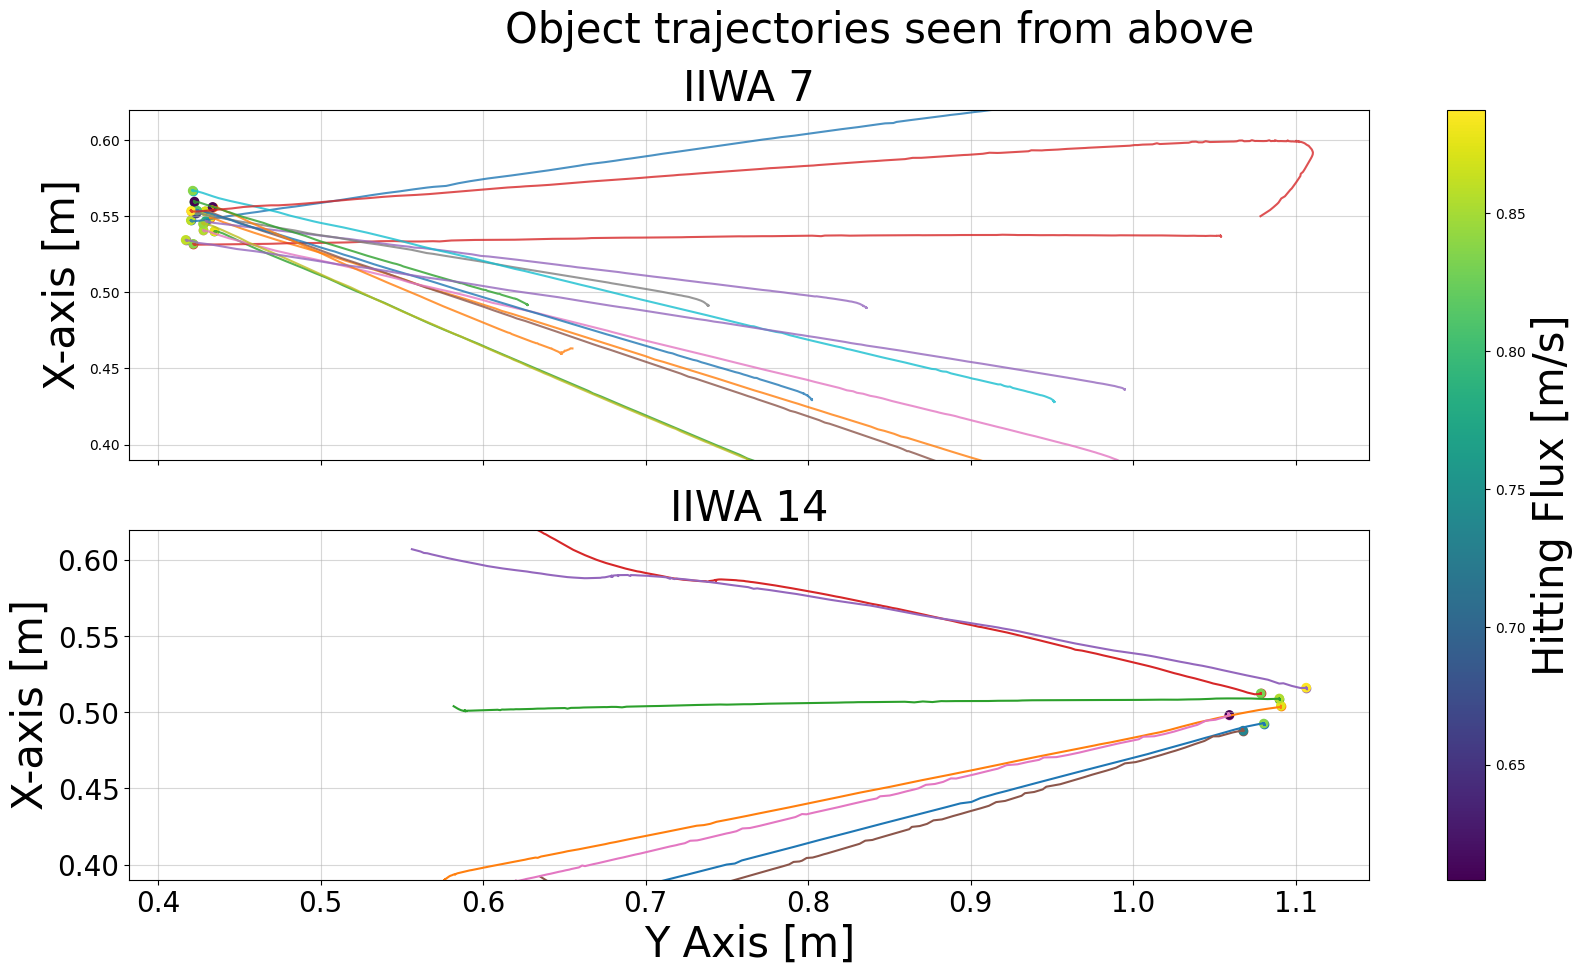
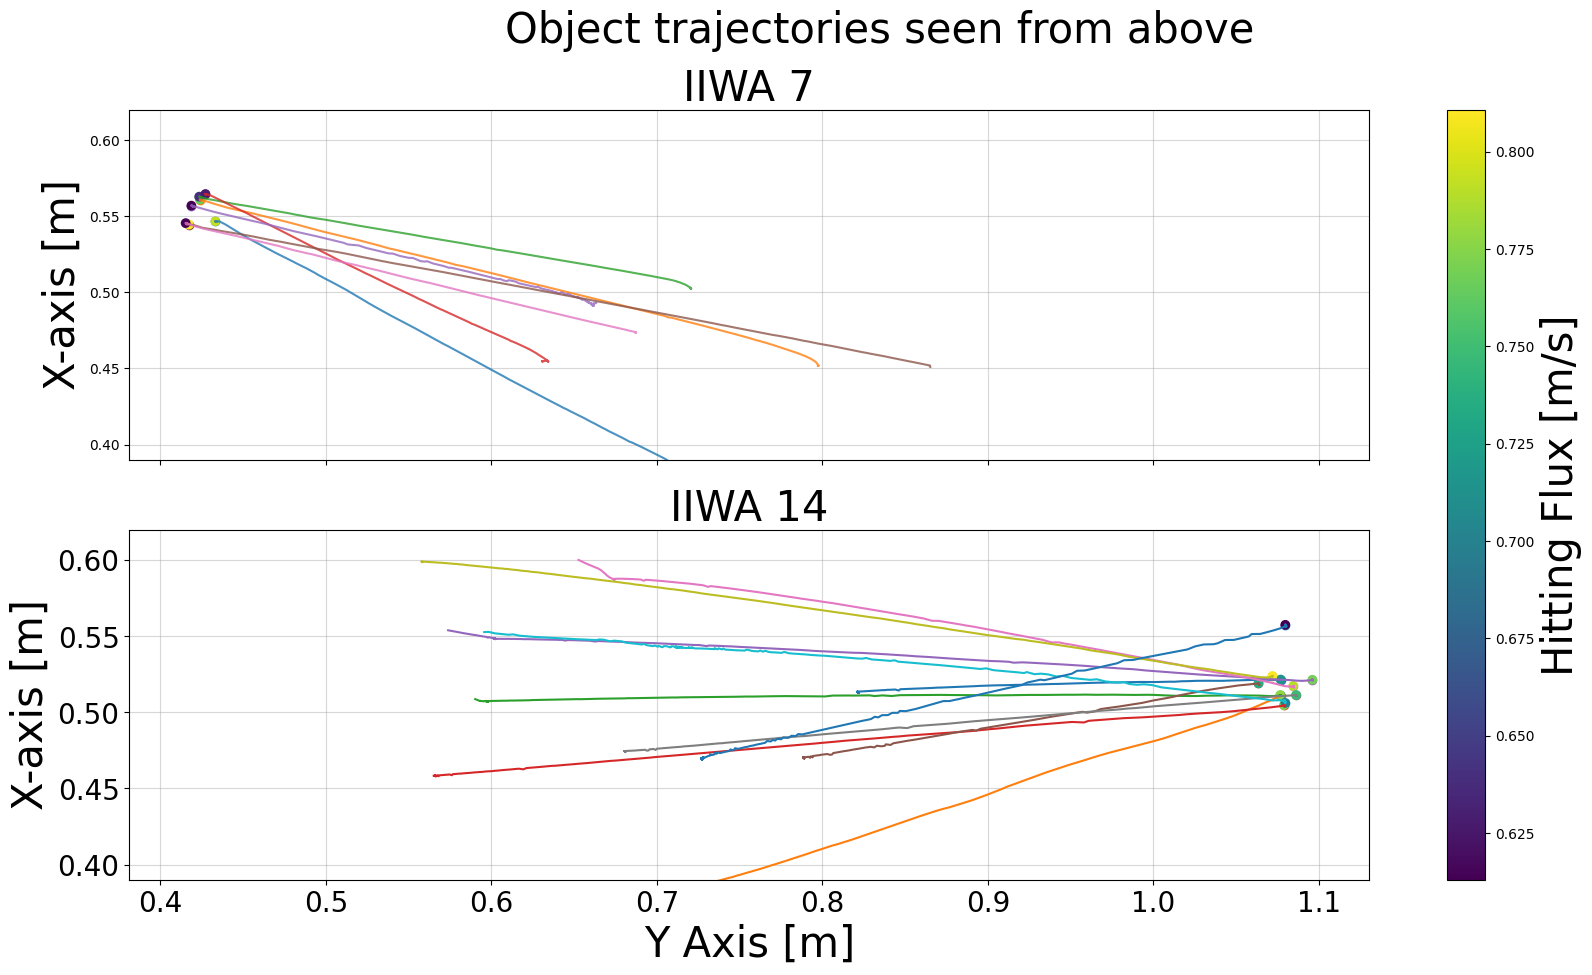
added prints

diff --git a/python/paper_plots.py b/python/paper_plots.py
@@ -228,6 +228,8 @@ def plot_object_trajectory_onefig(df, dataset_path="varying_flux_datasets/D1/", 
 ### Functions to call to recreate paper plots
 def object_traj_plot_for_paper(dataset_to_use='clean'):
 
+    print("Plotting object trajectories...")
+
     ### Datasets to use
     csv_fn = "D1_clean" 
 
@@ -235,7 +237,7 @@ def object_traj_plot_for_paper(dataset_to_use='clean'):
 
     ### Read OR clean datasets
     if dataset_to_use == "raw":
-        clean_df = read_and_clean_data(csv_fn, dataset_name=dataset_new_name, resample=False, save_folder=SAVE_FOLDER_FOR_PAPER, save_clean_df=True)
+        clean_df = read_and_clean_data(csv_fn, dataset_name=dataset_new_name, max_flux=0.82, resample=False, save_folder=SAVE_FOLDER_FOR_PAPER, save_clean_df=True)
     elif dataset_to_use == "clean":
         clean_df = read_airhockey_csv(fn=dataset_new_name, folder=PATH_TO_DATA_FOLDER + f"airhockey_processed/clean/{SAVE_FOLDER_FOR_PAPER}/")
 
@@ -246,6 +248,8 @@ def object_traj_plot_for_paper(dataset_to_use='clean'):
     plt.show()
 
 def robot_agnostic(dataset_to_use='clean'):
+
+    print("Plotting robot agnostic flux over distance...")
 
     ### Datasets to use
     csv_fn = "D1_clean" 
@@ -266,6 +270,8 @@ def robot_agnostic(dataset_to_use='clean'):
     plt.show()
 
 def object_agnostic(dataset_to_use='clean'):
+
+    print("Plotting object agnostic flux over distance...")
 
     ### Datasets to use
     csv_fn = "D1_clean"
@@ -292,6 +298,8 @@ def object_agnostic(dataset_to_use='clean'):
     plt.show()
 
 def config_agnostic(dataset_to_use='clean'):
+    
+    print("Plotting config agnostic flux over distance...")
 
     ### Datasets to use
     csv_fn = "D1_clean"
@@ -325,7 +333,7 @@ if __name__== "__main__" :
     ## Tune parameters inside each respective function
     ## Use 'raw' dataset to sample different datapoints for plots
 
-    object_traj_plot_for_paper()
+    object_traj_plot_for_paper('raw')
     # robot_agnostic(dataset_to_use='clean')
     # object_agnostic(dataset_to_use='clean')
     # config_agnostic(dataset_to_use="clean")
